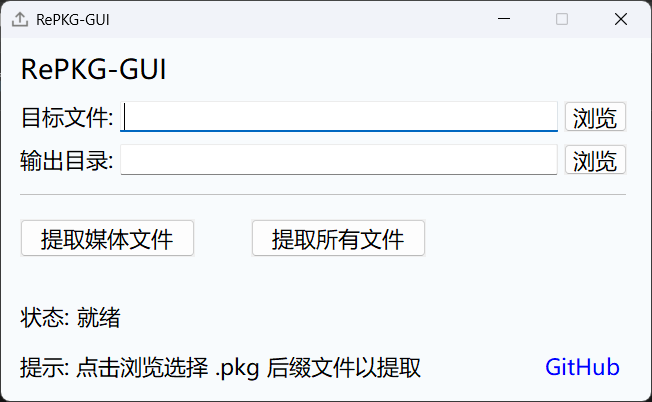
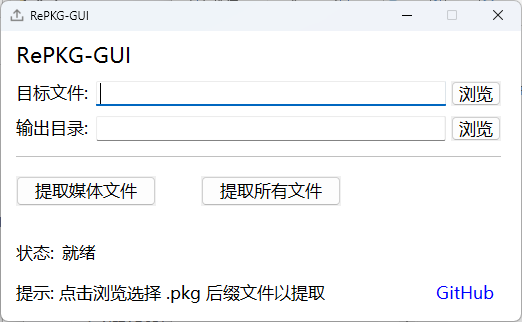
更新

diff --git a/README.md b/README.md
@@ -15,7 +15,7 @@
 ## 快速开始
 
 ### 方法 1：直接使用
-1. 下载 [Release](https://github.com/Zerin-emm/RePKG-GUI/releases) 中的 `RePKG-GUI_x64.exe`
+1. 下载 [Release](https://github.com/Zerin-emm/RePKG-GUI/releases) 中的 `RePKG_GUI_x64.exe`
 2. 双击运行
 
 ### 方法 2：从源码运行
